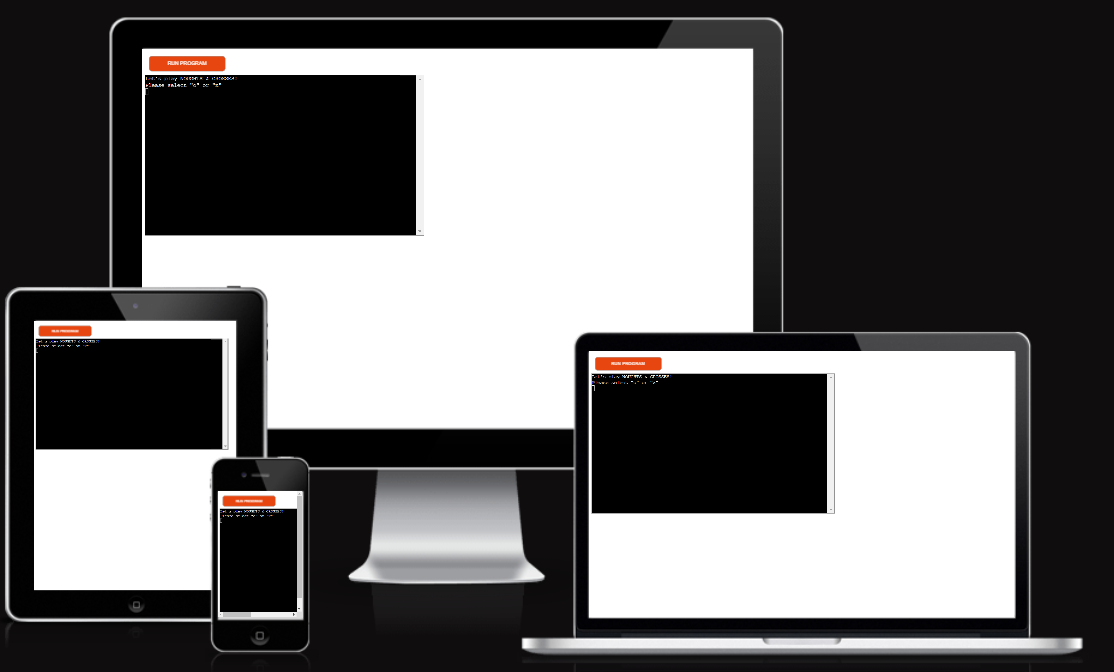
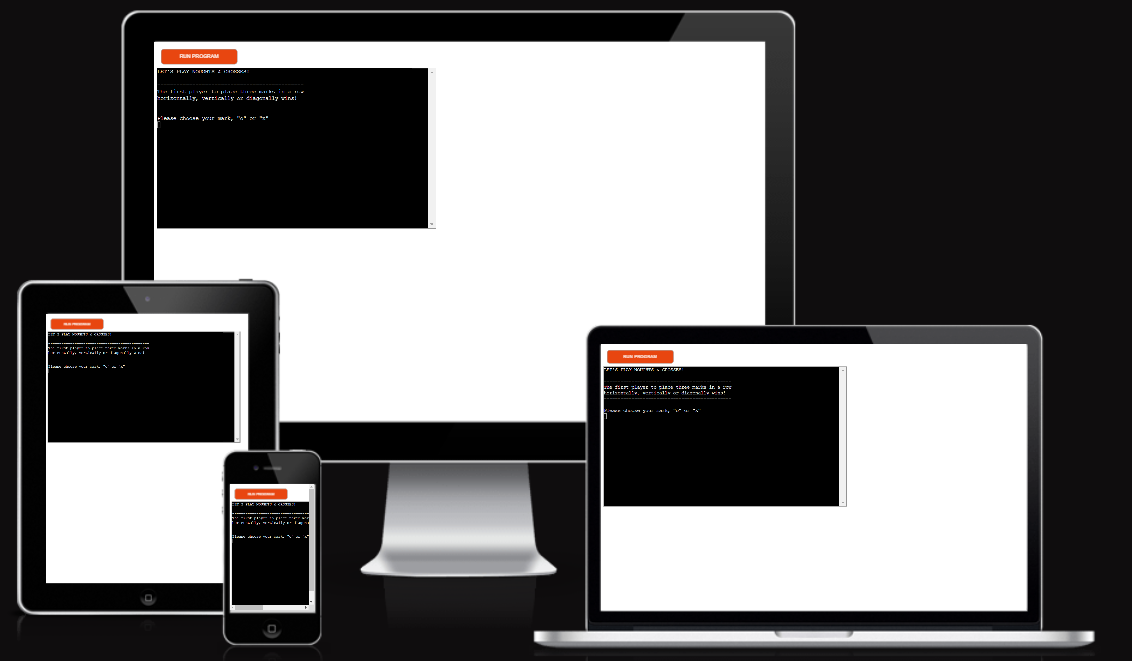
Add .lower() to input validation to allow uppercase variants

Changed region(s): [[0.0, 0.0, 0.9767, 0.9985]]

diff --git a/run.py b/run.py
@@ -35,7 +35,7 @@ def choose_mark():
     """
     user_choice = None
     while user_choice not in {"x", "o"}:
-        user_choice = input('Please choose your mark, "o" or "x"\n')
+        user_choice = input('Please choose your mark, "o" or "x"\n').lower()
     return user_choice
 
 
